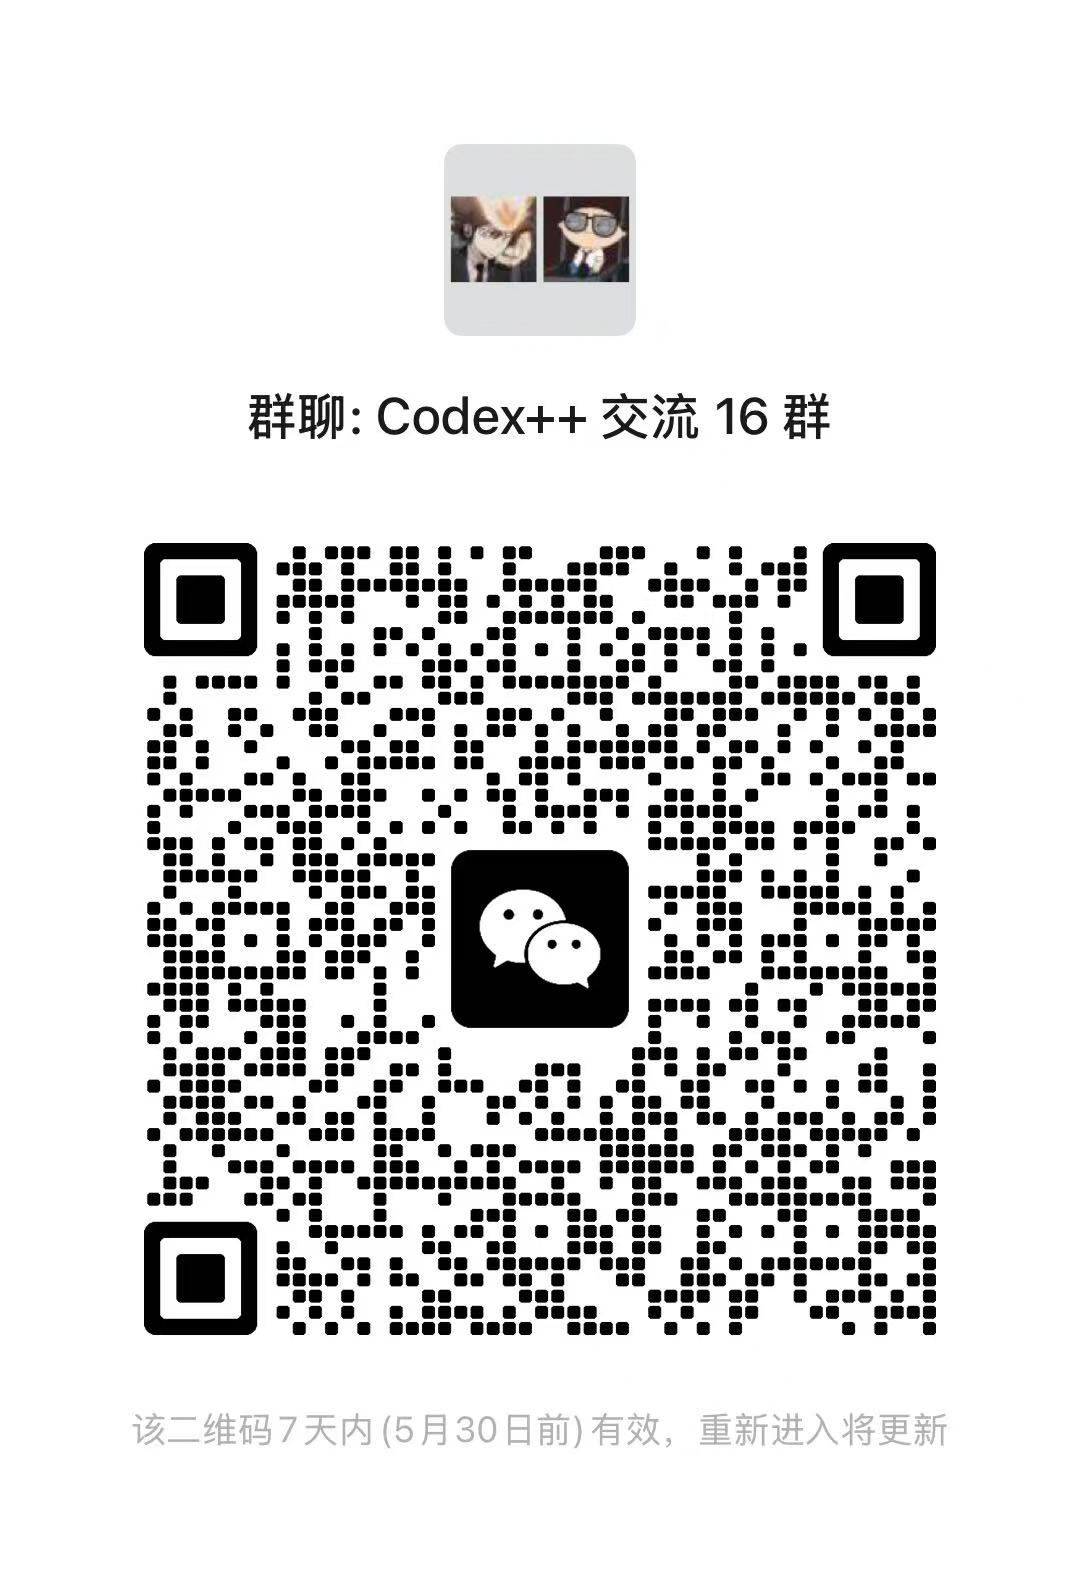
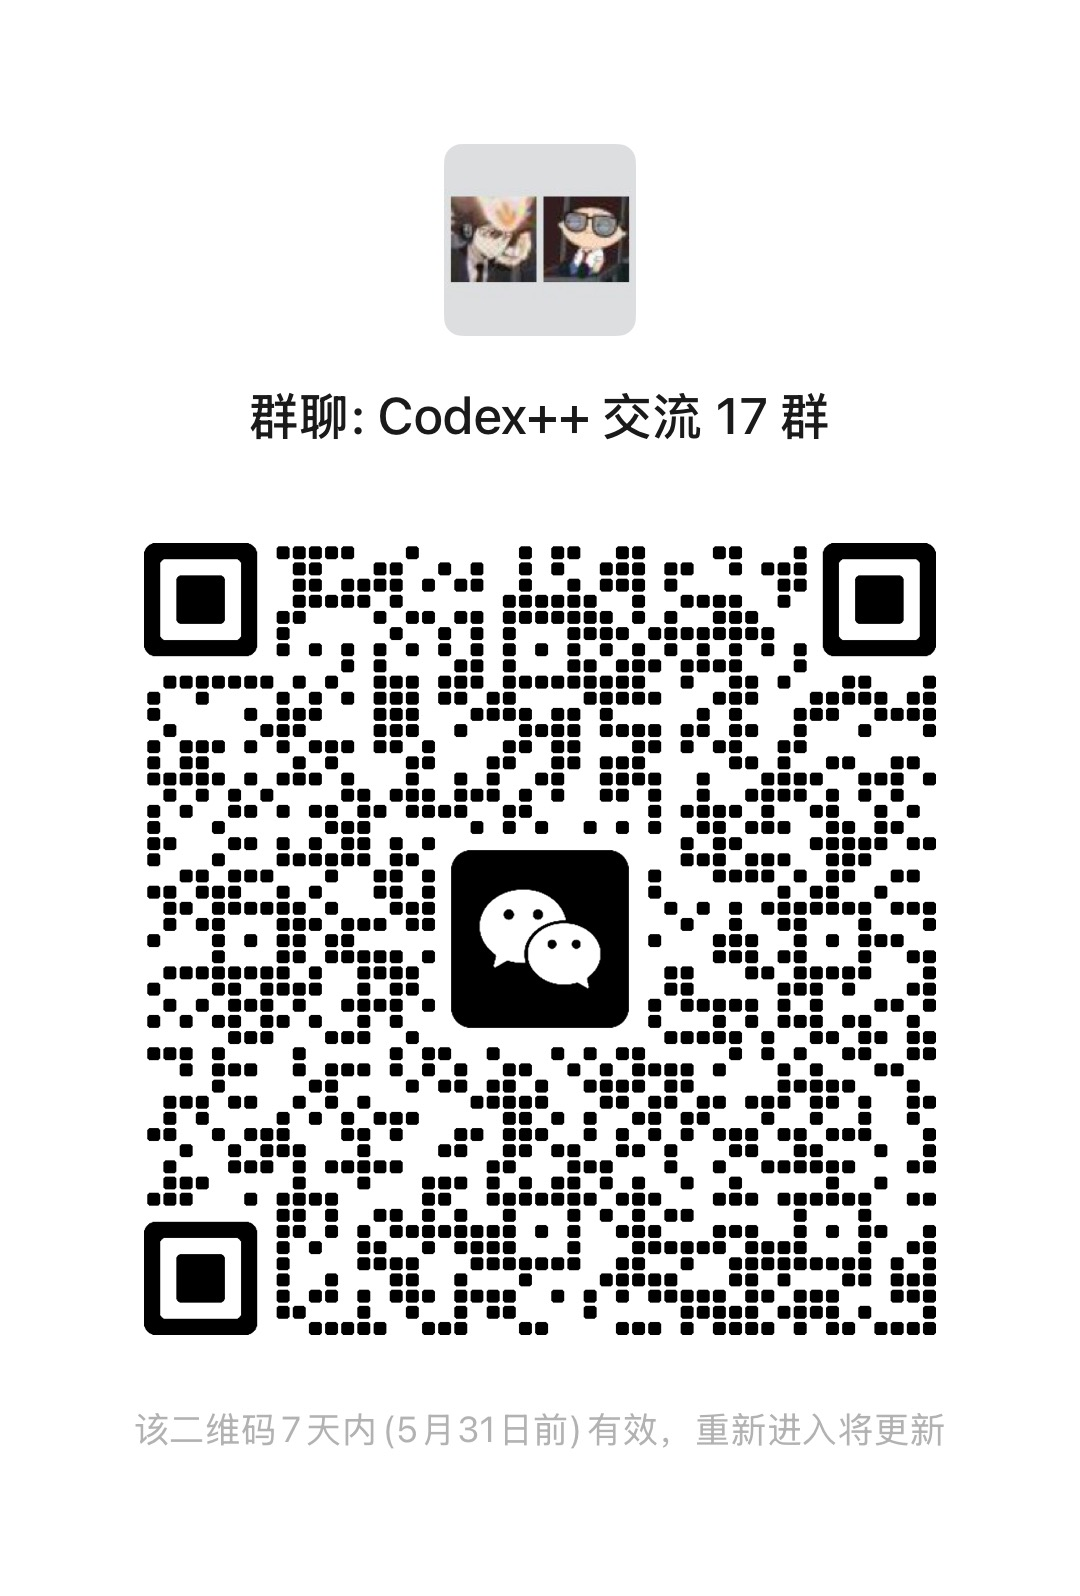
chore: update discussion group QR code

diff --git a/apps/codex-plus-manager/src/App.tsx b/apps/codex-plus-manager/src/App.tsx
@@ -17,7 +17,6 @@ import { CSS } from "@dnd-kit/utilities";
 import { invoke } from "@tauri-apps/api/core";
 import { open } from "@tauri-apps/plugin-dialog";
 import {
-  Activity,
   ArrowLeft,
   Bell,
   CheckCircle2,
@@ -41,7 +40,6 @@ import {
   RefreshCw,
   Rocket,
   Save,
-  ScrollText,
   Settings,
   ShieldCheck,
   Sun,
@@ -292,7 +290,7 @@ type StartupResult = CommandResult<{
   showUpdate: boolean;
 }>;
 
-type Route = "overview" | "relay" | "enhance" | "userScripts" | "providerSync" | "recommendations" | "maintenance" | "about" | "settings" | "logs" | "diagnostics";
+type Route = "overview" | "relay" | "enhance" | "userScripts" | "providerSync" | "recommendations" | "maintenance" | "about" | "settings";
 type Theme = "dark" | "light";
 
 const routes: Array<{ id: Route; label: string; icon: LucideIcon }> = [
@@ -305,8 +303,6 @@ const routes: Array<{ id: Route; label: string; icon: LucideIcon }> = [
   { id: "maintenance", label: "安装维护", icon: Wrench },
   { id: "about", label: "关于", icon: Info },
   { id: "settings", label: "设置", icon: Settings },
-  { id: "logs", label: "日志", icon: ScrollText },
-  { id: "diagnostics", label: "诊断", icon: Activity },
 ];
 
 const defaultSettings: BackendSettings = {
@@ -499,9 +495,11 @@ export function App() {
     }
     if (next === "providerSync") await refreshSettings(true);
     if (next === "recommendations") await refreshAds(true);
-    if (next === "about") await refreshOverview(true);
-    if (next === "logs") await refreshLogs(true);
-    if (next === "diagnostics") await refreshDiagnostics(true);
+    if (next === "about") {
+      await refreshOverview(true);
+      await refreshLogs(true);
+      await refreshDiagnostics(true);
+    }
     if (next === "maintenance") {
       await refreshOverview(true);
       await refreshWatcher(true);
@@ -968,7 +966,7 @@ export function App() {
       refreshDiagnostics,
       copyLogs: () => copyText(logs?.text ?? "", "日志已复制。"),
       copyDiagnostics: () => copyText(diagnostics?.report ?? "", "诊断报告已复制。"),
-      goLogs: () => navigate("logs"),
+      goLogs: () => navigate("about"),
       checkHealth: async () => {
         await refreshOverview(true);
         await refreshRelay(true);
@@ -1094,13 +1092,9 @@ export function App() {
               actions={actions}
             />
           ) : null}
-          {route === "about" ? <AboutScreen overview={overview} update={update} actions={actions} /> : null}
+          {route === "about" ? <AboutScreen overview={overview} update={update} logs={logs} diagnostics={diagnostics} actions={actions} /> : null}
           {route === "settings" ? (
             <SettingsScreen settings={settings} theme={theme} form={settingsForm} onFormChange={setSettingsForm} actions={actions} />
-          ) : null}
-          {route === "logs" ? <LogsScreen logs={logs} actions={actions} /> : null}
-          {route === "diagnostics" ? (
-            <DiagnosticsScreen diagnostics={diagnostics} actions={actions} />
           ) : null}
         </section>
       </main>
@@ -1243,7 +1237,7 @@ function OverviewScreen({
               启动 Codex++
             </Button>
             <Button variant="secondary" onClick={() => void actions.goLogs()}>
-              打开日志
+              打开关于
             </Button>
           </Toolbar>
         </CardContent>
@@ -1725,10 +1719,14 @@ function MaintenanceScreen({
 function AboutScreen({
   overview,
   update,
+  logs,
+  diagnostics,
   actions,
 }: {
   overview: OverviewResult | null;
   update: UpdateResult | null;
+  logs: LogsResult | null;
+  diagnostics: DiagnosticsResult | null;
   actions: Actions;
 }) {
   return (
@@ -1773,6 +1771,8 @@ function AboutScreen({
           </Toolbar>
         </CardContent>
       </Panel>
+      <LogsPanel logs={logs} actions={actions} />
+      <DiagnosticsPanel diagnostics={diagnostics} actions={actions} />
     </>
   );
 }
@@ -1873,10 +1873,10 @@ function SettingsScreen({
   );
 }
 
-function LogsScreen({ logs, actions }: { logs: LogsResult | null; actions: Actions }) {
+function LogsPanel({ logs, actions }: { logs: LogsResult | null; actions: Actions }) {
   const lines = splitLogLines(logs?.text ?? "");
   return (
-    <Panel fill>
+    <Panel>
       <CardHead title="最近日志" detail={logs?.path ?? ""} />
       <CardContent>
         <div className="log-lines">
@@ -1902,9 +1902,9 @@ function LogsScreen({ logs, actions }: { logs: LogsResult | null; actions: Actio
   );
 }
 
-function DiagnosticsScreen({ diagnostics, actions }: { diagnostics: DiagnosticsResult | null; actions: Actions }) {
+function DiagnosticsPanel({ diagnostics, actions }: { diagnostics: DiagnosticsResult | null; actions: Actions }) {
   return (
-    <Panel fill>
+    <Panel>
       <CardHead title="诊断报告" detail="包含版本、路径、设置和平台信息" />
       <CardContent>
         <Textarea className="log-view tall" readOnly value={diagnostics?.report ?? "尚未生成诊断报告。"} />
@@ -2564,10 +2564,8 @@ function routeSubtitle(route: Route) {
     providerSync: "切换模式后让旧对话重新可见",
     recommendations: "赞助商推荐与普通推荐",
     maintenance: "入口安装、修复、Watcher 与手动启动",
-    about: "版本信息、项目链接与 GitHub Release 更新",
+    about: "版本信息、项目链接、GitHub Release 更新、日志与诊断",
     settings: "主题、命令包装器和启动参数",
-    logs: "最近状态文件内容",
-    diagnostics: "可复制的运行诊断报告",
   };
   return subtitles[route];
 }
